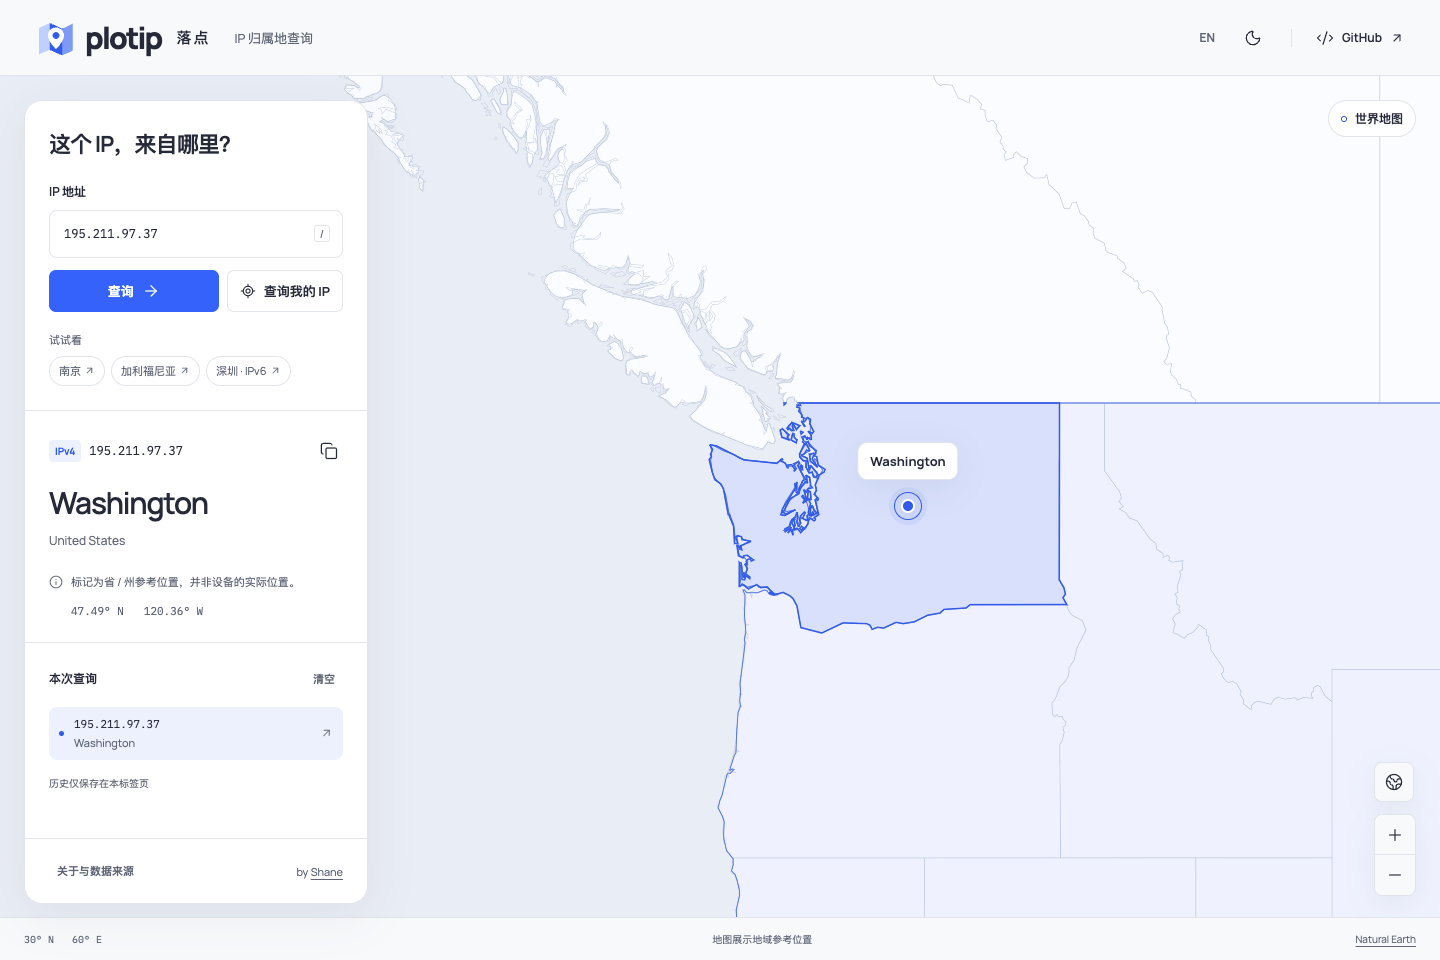
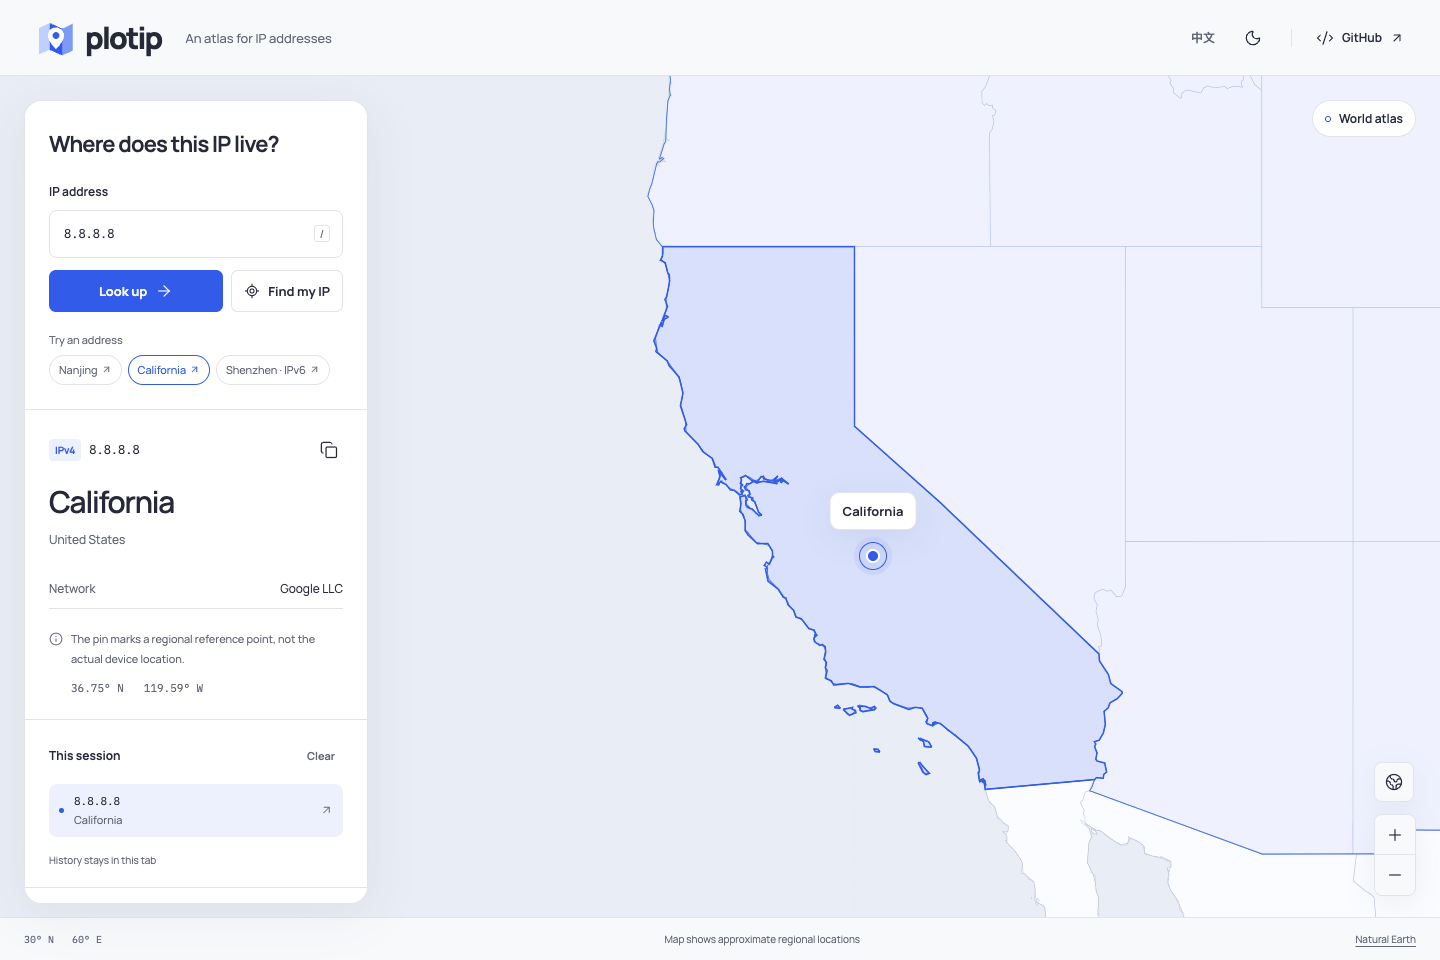
Make English default and unify project URLs under Plotip

diff --git a/web/src/main.ts b/web/src/main.ts
@@ -69,7 +69,8 @@ const persist = (key: string, value: string) => {
     /* Storage is optional. */
   }
 };
-let lang: Lang = stored("atlas-lang") === "en" ? "en" : "zh";
+let lang: Lang =
+  (stored("plotip-lang") ?? stored("atlas-lang")) === "zh" ? "zh" : "en";
 let dark = stored("atlas-theme")
   ? stored("atlas-theme") === "dark"
   : matchMedia("(prefers-color-scheme: dark)").matches;
@@ -141,7 +142,7 @@ const text = {
   },
   en: {
     tagline: "Where does this IP live?",
-    intro: "Find where an address meets the world.",
+    intro: "",
     label: "IP address",
     placeholder: "Enter an IPv4 or IPv6 address",
     search: "Look up",
@@ -229,7 +230,7 @@ try {
 
 $("app").innerHTML = `
 <a class="skip-link" href="#ip-input">${lang === "zh" ? "跳到查询" : "Skip to lookup"}</a>
-<header class="masthead"><a class="brand" href="/" aria-label="Plotip"><img src="/favicon.svg" width="32" height="32" alt=""/><span class="brand-word">plotip</span><span class="brand-chinese">落点</span></a><span class="masthead-caption" id="header-caption"></span><nav aria-label="Site controls"><button id="lang" class="text-button">EN</button><button id="theme" class="icon-button"></button><a class="github-link" href="https://github.com/shanezchang/ip-atlas" target="_blank" rel="noopener noreferrer">${icon("Github")}<span>GitHub</span>${icon("ArrowUpRight")}</a></nav></header>
+<header class="masthead"><a class="brand" href="/" aria-label="Plotip"><img src="/favicon.svg" width="32" height="32" alt=""/><span class="brand-word">plotip</span><span class="brand-chinese">落点</span></a><span class="masthead-caption" id="header-caption"></span><nav aria-label="Site controls"><button id="lang" class="text-button">EN</button><button id="theme" class="icon-button"></button><a class="github-link" href="https://github.com/shanezchang/plotip" target="_blank" rel="noopener noreferrer">${icon("Github")}<span>GitHub</span>${icon("ArrowUpRight")}</a></nav></header>
 <main class="workspace"><aside class="rail"><section class="query-section"><h1 id="tagline"></h1><p id="intro" class="intro"></p><form id="query-form" novalidate><label for="ip-input" id="input-label"></label><div class="input-wrap"><input id="ip-input" name="ip" autocomplete="off" autocapitalize="none" spellcheck="false" maxlength="64" aria-describedby="error" required/><kbd>/</kbd></div><div class="query-actions"><button type="submit" id="submit" class="primary"></button><button type="button" id="my-ip" class="secondary"></button></div><p id="error" class="error" role="alert" hidden></p><p id="status" class="sr-only" role="status"></p></form><div class="examples"><span id="try-label"></span><div id="examples"></div></div></section><section id="result" class="result-section" aria-live="polite" aria-atomic="true"></section><section class="history-section"><div class="section-heading"><h2 id="recent-label"></h2><button id="clear-history" class="text-button"></button></div><div id="history"></div><p class="history-note" id="local-note"></p></section><footer class="rail-footer"><button id="about-button" class="text-button"></button><span>by <a href="https://github.com/shanezchang" target="_blank" rel="noopener noreferrer">Shane</a></span></footer></aside><section class="map-panel" aria-label="Interactive world map"><div id="map"></div><div class="map-heading"><span class="map-heading-dot"></span><span id="world-label"></span></div><div id="map-loading" role="status"></div><div class="map-controls"><button id="reset-map" class="icon-button">${icon("Globe2")}</button><div class="zoom-controls"><button id="zoom-in" class="icon-button">${icon("Plus")}</button><button id="zoom-out" class="icon-button">${icon("Minus")}</button></div></div><div class="map-footer"><span id="map-coordinates">30° N &nbsp; 60° E</span><span id="map-note"></span><a href="https://www.naturalearthdata.com/" target="_blank" rel="noopener noreferrer">Natural Earth</a></div></section></main>
 <dialog id="about-dialog" aria-labelledby="about-title"><button id="close-dialog" class="icon-button dialog-close">${icon("X")}</button><div id="about-content"></div></dialog><div id="toast" role="status" hidden></div>`;
 
@@ -384,6 +385,7 @@ function showError(message: string) {
 }
 function renderLanguage() {
   document.documentElement.lang = lang === "zh" ? "zh-CN" : "en";
+  document.querySelector<HTMLElement>(".brand-chinese")!.hidden = lang !== "zh";
   document.title =
     lang === "zh"
       ? "落点 Plotip — IP 归属地查询"
@@ -438,7 +440,7 @@ function renderLanguage() {
   }
   if (!$("map-loading").hidden) $("map-loading").textContent = t().loadingMap;
   $("about-content").innerHTML =
-    `<img src="/favicon.svg" width="40" height="40" alt=""/><h2 id="about-title">${t().aboutTitle}</h2><p class="dialog-lead">${t().aboutLead}</p><p>${t().aboutBody}</p><p>${t().accuracy}</p><h3>${t().sources}</h3><p>${t().data}</p><div class="source-links"><a href="https://github.com/lionsoul2014/ip2region" target="_blank" rel="noopener noreferrer">ip2region</a><a href="https://www.geonames.org/" target="_blank" rel="noopener noreferrer">GeoNames</a><a href="https://www.naturalearthdata.com/" target="_blank" rel="noopener noreferrer">Natural Earth</a></div><p class="privacy-note">${t().privacy}</p><a href="https://github.com/shanezchang/ip-atlas" target="_blank" rel="noopener noreferrer">GitHub ${icon("ArrowUpRight")}</a>`;
+    `<img src="/favicon.svg" width="40" height="40" alt=""/><h2 id="about-title">${t().aboutTitle}</h2><p class="dialog-lead">${t().aboutLead}</p><p>${t().aboutBody}</p><p>${t().accuracy}</p><h3>${t().sources}</h3><p>${t().data}</p><div class="source-links"><a href="https://github.com/lionsoul2014/ip2region" target="_blank" rel="noopener noreferrer">ip2region</a><a href="https://www.geonames.org/" target="_blank" rel="noopener noreferrer">GeoNames</a><a href="https://www.naturalearthdata.com/" target="_blank" rel="noopener noreferrer">Natural Earth</a></div><p class="privacy-note">${t().privacy}</p><a href="https://github.com/shanezchang/plotip" target="_blank" rel="noopener noreferrer">GitHub ${icon("ArrowUpRight")}</a>`;
   setBusy(busy);
   renderResult();
   renderHistory();
@@ -461,7 +463,7 @@ $("theme").onclick = () => {
 };
 $("lang").onclick = () => {
   lang = lang === "zh" ? "en" : "zh";
-  persist("atlas-lang", lang);
+  persist("plotip-lang", lang);
   $("error").hidden = true;
   renderLanguage();
 };

diff --git a/web/index.html b/web/index.html
@@ -1,29 +1,29 @@
 <!doctype html>
-<html lang="zh-CN">
+<html lang="en">
   <head>
     <meta charset="UTF-8" />
     <meta name="viewport" content="width=device-width, initial-scale=1.0" />
     <meta name="theme-color" content="#f5f6f8" />
     <meta
       name="description"
-      content="落点 Plotip：在地图上探索 IP 归属地。免费查询 IPv4、IPv6 的国家、地区和运营商。开源，无需注册。"
+      content="Find an IP address on the map. Free IPv4 and IPv6 geolocation lookup, with country, region and network information. Open source. No account needed."
     />
-    <meta property="og:title" content="落点 Plotip — 把地址放回地图" />
+    <meta property="og:title" content="Plotip — Put an IP on the map" />
     <meta
       property="og:description"
-      content="一个安静、直观的 IP 归属地查询工具。IPv4 & IPv6，地图探索，开源。"
+      content="An open-source IP geolocation map. IPv4 and IPv6 lookup, regional reference points, no account needed."
     />
     <meta property="og:type" content="website" />
     <link rel="icon" type="image/svg+xml" href="/favicon.svg" />
-    <link rel="canonical" href="https://ip-atlas-app.vercel.app/" />
-    <meta property="og:url" content="https://ip-atlas-app.vercel.app/" />
-    <title>落点 Plotip — IP 归属地查询</title>
+    <link rel="canonical" href="https://plotip.vercel.app/" />
+    <meta property="og:url" content="https://plotip.vercel.app/" />
+    <title>Plotip — IP geolocation map</title>
   </head>
   <body>
     <div id="app"></div>
     <noscript
-      >落点 Plotip 需要 JavaScript 来查询 IP 和显示交互地图。落点 Plotip
-      requires JavaScript for lookup and the interactive map.</noscript
+      >Plotip requires JavaScript for IP lookup and the interactive
+      map.</noscript
     >
     <script type="module" src="/src/main.ts"></script>
   </body>

diff --git a/tests/browser/language.spec.ts b/tests/browser/language.spec.ts
@@ -1,0 +1,23 @@
+import { test, expect } from "@playwright/test";
+
+test("new visitors see English and language choices persist", async ({
+  page,
+}) => {
+  await page.goto("/");
+  await expect(page.locator("html")).toHaveAttribute("lang", "en");
+  await expect(
+    page.getByRole("button", { name: "Look up", exact: true }),
+  ).toBeVisible();
+  await expect(page.locator(".brand-chinese")).toBeHidden();
+  await expect(page.locator(".github-link")).toHaveAttribute(
+    "href",
+    "https://github.com/shanezchang/plotip",
+  );
+  await page.getByRole("button", { name: "切换到中文" }).click();
+  await page.reload();
+  await expect(page.locator("html")).toHaveAttribute("lang", "zh-CN");
+  await expect(page.locator(".brand-chinese")).toBeVisible();
+  await page.getByRole("button", { name: "Switch to English" }).click();
+  await page.reload();
+  await expect(page.locator("html")).toHaveAttribute("lang", "en");
+});

diff --git a/tests/browser/lookup.spec.ts b/tests/browser/lookup.spec.ts
@@ -1,5 +1,13 @@
 import { test, expect } from "@playwright/test";
 
+// Exercise Chinese workflows explicitly; first-visit English is tested separately.
+test.beforeEach(async ({ page }) => {
+  await page.addInitScript(() => {
+    if (!localStorage.getItem("plotip-lang"))
+      localStorage.setItem("plotip-lang", "zh");
+  });
+});
+
 test("IPv4 query updates real map, history, language and theme without shipping XDB", async ({
   page,
 }) => {

diff --git a/THIRD_PARTY_NOTICES.md b/THIRD_PARTY_NOTICES.md
@@ -1,9 +1,9 @@
 # Third-party data and software
 
-IP Atlas application code is MIT-licensed. Third-party software and datasets keep their own licenses.
+Plotip application code is MIT-licensed. Third-party software and datasets keep their own licenses.
 
 - **IP data and query engine:** [lionsoul2014/ip2region](https://github.com/lionsoul2014/ip2region), copyright Lionsoul / The Ip2Region Authors. Repository snapshot `02f04aa559acd954d94f77086e8ebe32483b365b`. The upstream repository declares `Apache-2.0 OR MIT`; its complete license is reproduced in `data/IP2REGION-LICENSE.txt`. We bundle the open-source XDB files, not the separate commercial database. Python binding `py-ip2region` is pinned in `uv.lock` and retains its upstream license.
-- **City reference coordinates:** [GeoNames](https://www.geonames.org/), [CC BY 4.0](https://creativecommons.org/licenses/by/4.0/), through `geonamescache==3.0.2`. IP Atlas normalizes names, matches them to IP regions, and extracts coordinates into `data/places.json`. These are modified, incomplete extracts; they are not device locations. No endorsement by GeoNames is implied.
+- **City reference coordinates:** [GeoNames](https://www.geonames.org/), [CC BY 4.0](https://creativecommons.org/licenses/by/4.0/), through `geonamescache==3.0.2`. Plotip normalizes names, matches them to IP regions, and extracts coordinates into `data/places.json`. These are modified, incomplete extracts; they are not device locations. No endorsement by GeoNames is implied.
 - **Map, region and country reference coordinates:** [Natural Earth](https://www.naturalearthdata.com/about/terms-of-use/), public domain. Original country geometry and simplified administrative outlines; unused properties removed. Snapshot `ca96624a56bd078437bca8184e78163e5039ad19` from `nvkelso/natural-earth-vector`. Geographic names and boundaries follow upstream data.
 - **Map renderer:** MapLibre GL JS, BSD-3-Clause. License in `web/public/licenses/MAPLIBRE-LICENSE.txt`.
 - **Interface icons:** Lucide, ISC (some inherited icons under MIT). License in `web/public/licenses/LUCIDE-LICENSE.txt`.

diff --git a/README.md b/README.md
@@ -2,7 +2,7 @@
 
 Every IP has a place. Look up an address and explore its region on a quiet, interactive map.
 
-[Live website](https://ip-atlas-app.vercel.app/) · [中文](README.zh-CN.md) · [Data & attribution](THIRD_PARTY_NOTICES.md) · [Development](docs/development.md)
+[Live website](https://plotip.vercel.app/) · [中文](README.zh-CN.md) · [Data & attribution](THIRD_PARTY_NOTICES.md) · [Development](docs/development.md)
 
 ![Plotip](docs/preview.png)
 
@@ -19,8 +19,8 @@ No account, application database, external lookup API or analytics script.
 Requires [uv](https://docs.astral.sh/uv/) and Node.js 22+.
 
 ```sh
-git clone https://github.com/shanezchang/ip-atlas.git
-cd ip-atlas
+git clone https://github.com/shanezchang/plotip.git
+cd plotip
 uv sync --locked
 npm ci
 npm run build

diff --git a/README.zh-CN.md b/README.zh-CN.md
@@ -2,7 +2,7 @@
 
 每个 IP，都有来处。查询 IP 归属地，在一张安静、直观的地图上探索它的位置。
 
-[在线体验](https://ip-atlas-app.vercel.app/) · [English](README.md) · [数据与署名](THIRD_PARTY_NOTICES.md) · [开发说明](docs/development.md)
+[在线体验](https://plotip.vercel.app/) · [English](README.md) · [数据与署名](THIRD_PARTY_NOTICES.md) · [开发说明](docs/development.md)
 
 ![Plotip](docs/preview.png)
 
@@ -15,8 +15,8 @@
 安装 uv 和 Node.js 22+ 后：
 
 ```sh
-git clone https://github.com/shanezchang/ip-atlas.git
-cd ip-atlas
+git clone https://github.com/shanezchang/plotip.git
+cd plotip
 uv sync --locked
 npm ci
 npm run build

diff --git a/docs/deployment.md b/docs/deployment.md
@@ -18,7 +18,6 @@ A first deployment may receive the production alias automatically. Test it immed
 
 ## This deployment
 
-- Website: https://ip-atlas-app.vercel.app/
-- GitHub: https://github.com/shanezchang/ip-atlas
-- Vercel project: `ip-atlas`, scope `shanes-projects-025e82ba`.
-- The shorter `ip-atlas.vercel.app` and `ipatlas.vercel.app` are owned by others. Do not change those domains.
+- Website: https://plotip.vercel.app/
+- GitHub: https://github.com/shanezchang/plotip
+- Vercel project: `plotip`, scope `shanes-projects-025e82ba`.
